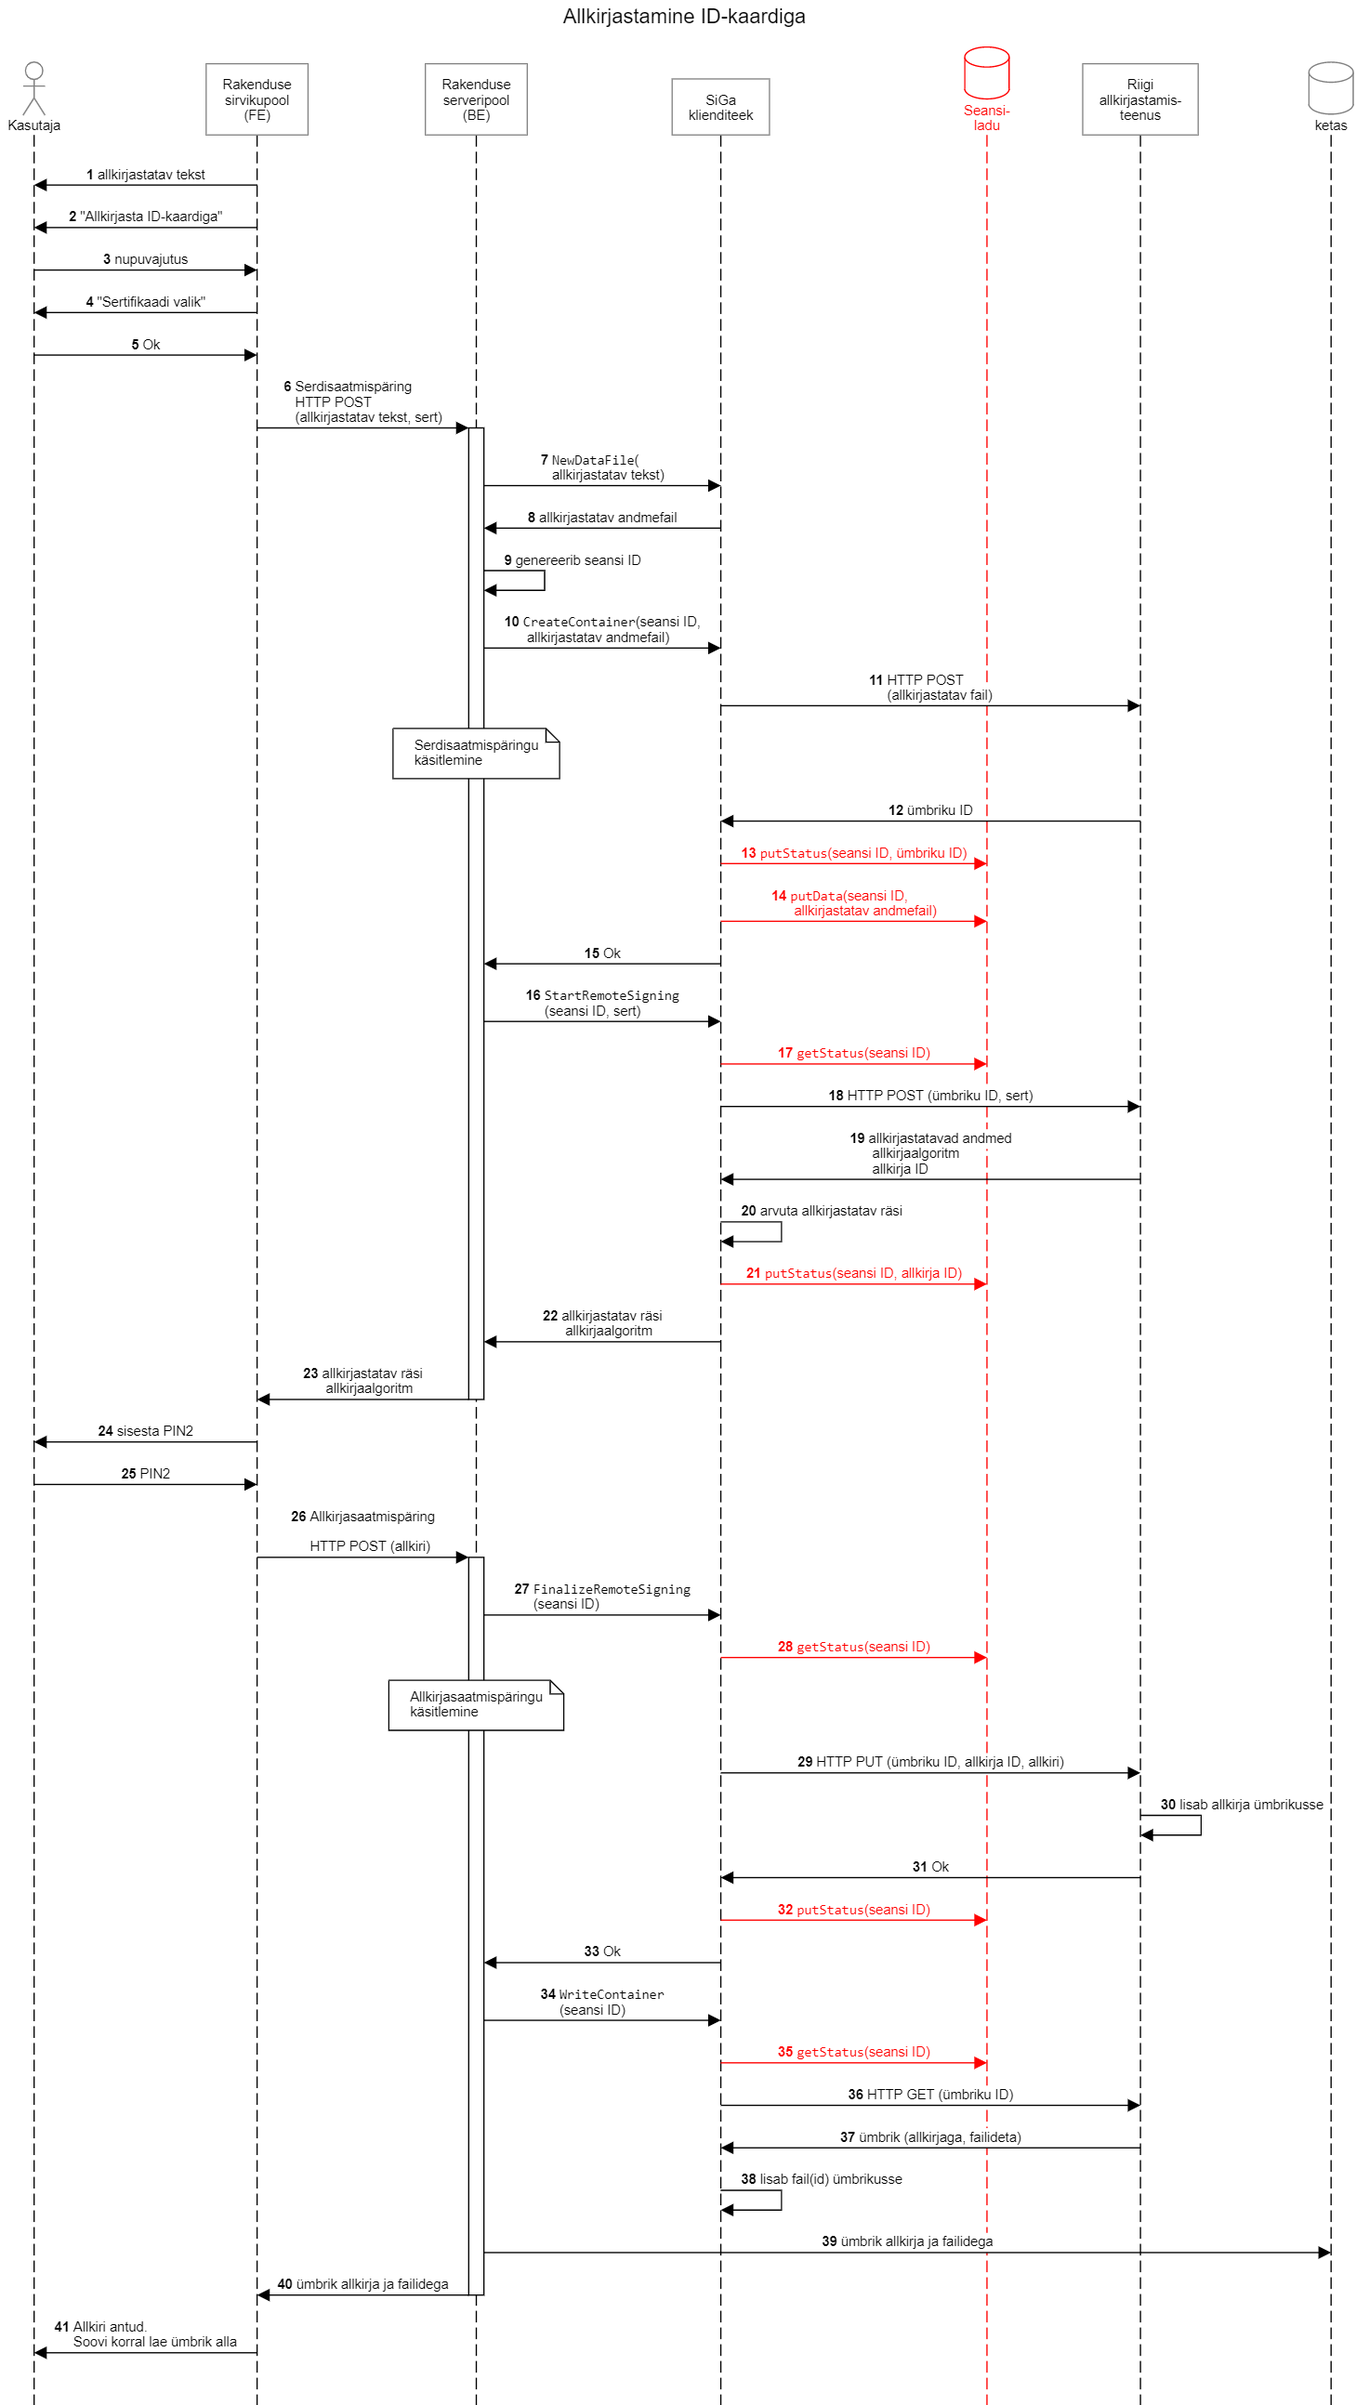
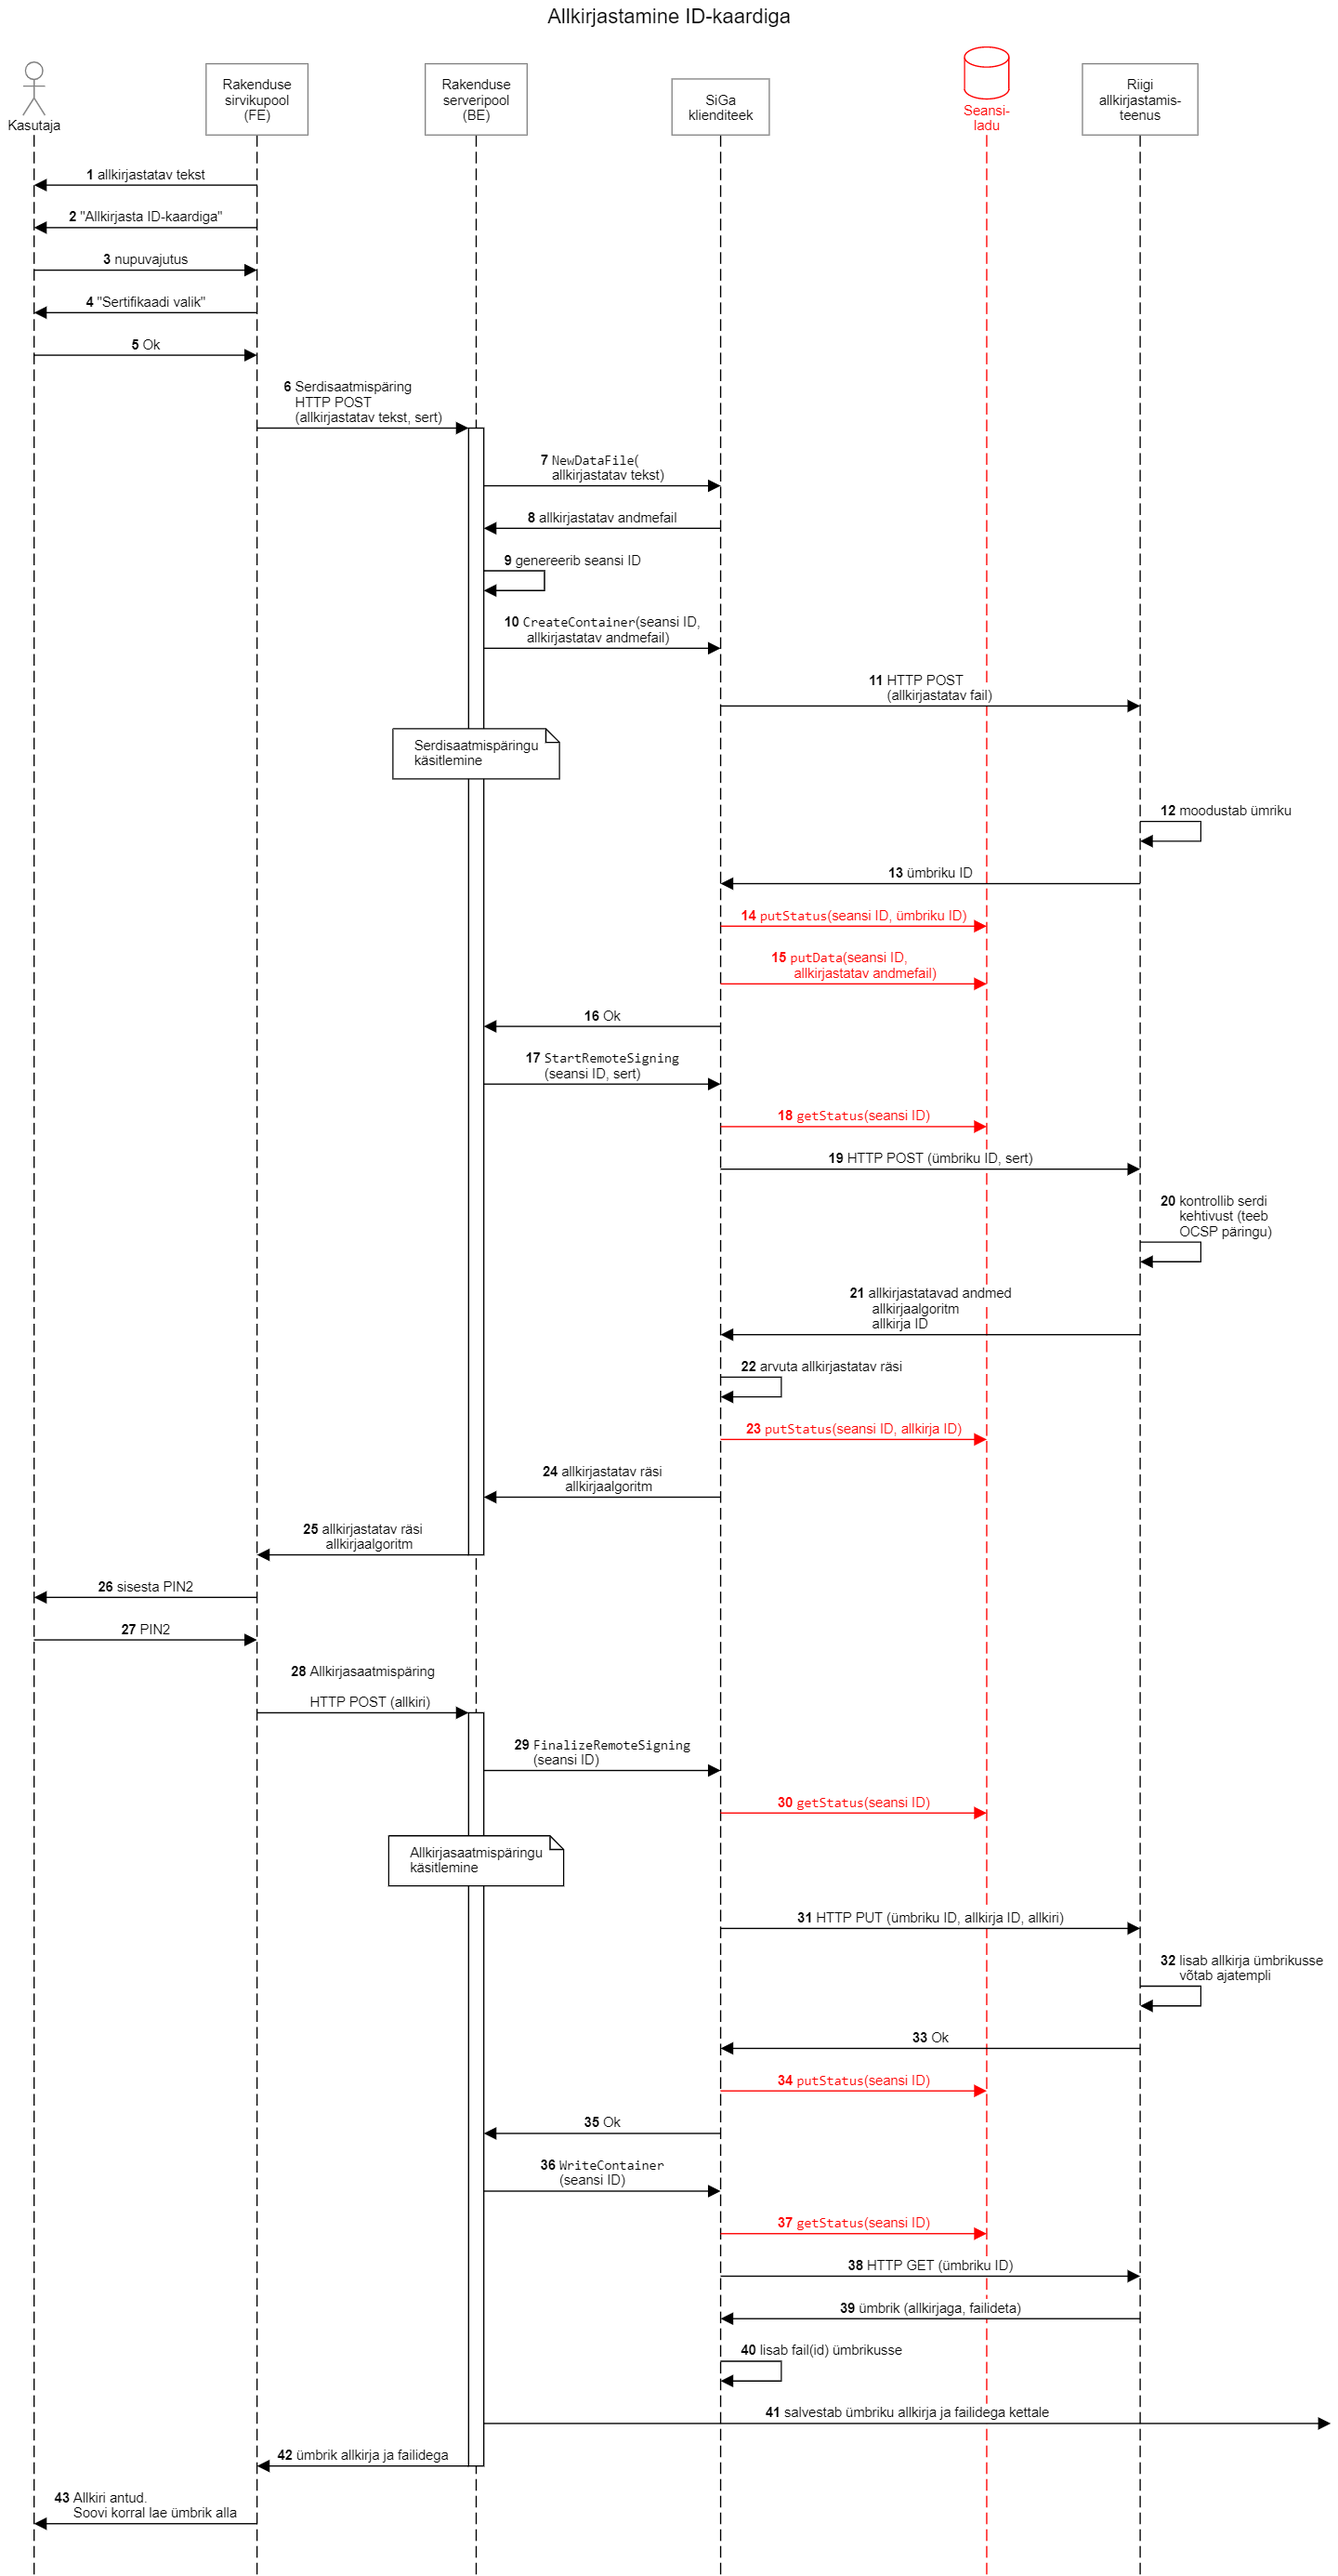
+

diff --git a/README.md b/README.md
@@ -168,41 +168,41 @@ ID-kaardiga allkirjastamise voog on järgmine (selgitused vt skeemi järel):
 
 `POST` `/hashcodecontainers`
 
-11-12  Riigi allkirjastamisteenus moodustab ümbriku ja tagastab ümbriku ID.
+11-13  Riigi allkirjastamisteenus moodustab ümbriku ja tagastab ümbriku ID.
 
-13  SiGa klienditeek moodustab seansilaos (`storage`) seansiolekukirje `status` (`siga.storage.putStatus`)
+14  SiGa klienditeek moodustab seansilaos (`storage`) seansiolekukirje `status` (`siga.storage.putStatus`)
 
-16  BE saadab serdi SiGa klienditeegile (`StarmRemoteSigning`).
+17  BE saadab serdi SiGa klienditeegile (`StarmRemoteSigning`).
 
-18 SiGa klienditeek saadab POST päringuga serdi Riigi allkirjastamisteenusesse:
+19 SiGa klienditeek saadab POST päringuga serdi Riigi allkirjastamisteenusesse:
 
 `POST /hascodecontainers/{containerid}/remotesigning`
 
-19  Riigi allkirjastamisteenus saadab vastuses allkirjastatavad andmed, allkirjaalgoritmi ja allkirja ID.
+21  Riigi allkirjastamisteenus saadab vastuses allkirjastatavad andmed, allkirjaalgoritmi ja allkirja ID.
 
-20  SiGa klienditeek arvutab allkirjastatava räsi.
+22  SiGa klienditeek arvutab allkirjastatava räsi.
 
-22-23 Allkirjastatav räsi ja allkirjaalgoritm saadetakse BE kaudu FE-i.
+24-25 Allkirjastatav räsi ja allkirjaalgoritm saadetakse BE kaudu FE-i.
 
-24  FE korraldab PIN2 küsimise ja allkirja andmise. Allkirja andmine seisneb räsile krüptotoimingu rakendamises, Kasutaja allkirjastamise privaatvõtme abil.
+26  FE korraldab PIN2 küsimise ja allkirja andmise. Allkirja andmine seisneb räsile krüptotoimingu rakendamises, Kasutaja allkirjastamise privaatvõtme abil.
 
-26  Antud allkiri liigub FE-st BE-i.
+28  Antud allkiri liigub FE-st BE-i.
 
-27  BE saadab allkirjaväärtuse SiGa klienditeeki (`FinalizeRemoteSigning`).
+29  BE saadab allkirjaväärtuse SiGa klienditeeki (`FinalizeRemoteSigning`).
 
-29  SiGa klienditeek saadab allkirja Riigi allkirjastamisteenusesse:
+31  SiGa klienditeek saadab allkirja Riigi allkirjastamisteenusesse:
 
 `PUT /hascodecontainers/{containerid}/remotesigning/generatedSignatureId`
 
-30 Riigi allkirjastamisteenus lisab allkirja ümbrikusse.
+32 Riigi allkirjastamisteenus lisab allkirja ümbrikusse.
 
-34  BE pärib SiGa klienditeegist ümbriku (`WriteContainer`):
+36  BE pärib SiGa klienditeegist ümbriku (`WriteContainer`):
 
 `GET` `/hashcodecontainers/{containerID}`
 
-38 SiGa klienditeek lisab ümbrikusse andmefaili. Nii moodustub täielik allkirjaümbrik - milles on nii allkiri kui ka allkirjastatud fail.
+40 SiGa klienditeek lisab ümbrikusse andmefaili. Nii moodustub täielik allkirjaümbrik - milles on nii allkiri kui ka allkirjastatud fail.
 
-39  BE kirjutab täieliku allkirjaümbriku faili `allkirjad/id-card.asice`.
+41  BE kirjutab täieliku allkirjaümbriku kettale, faili `allkirjad/id-card.asice`.
 
 xx BE kustutab ümbriku Riigi allkirjastamisteenusest:
 
